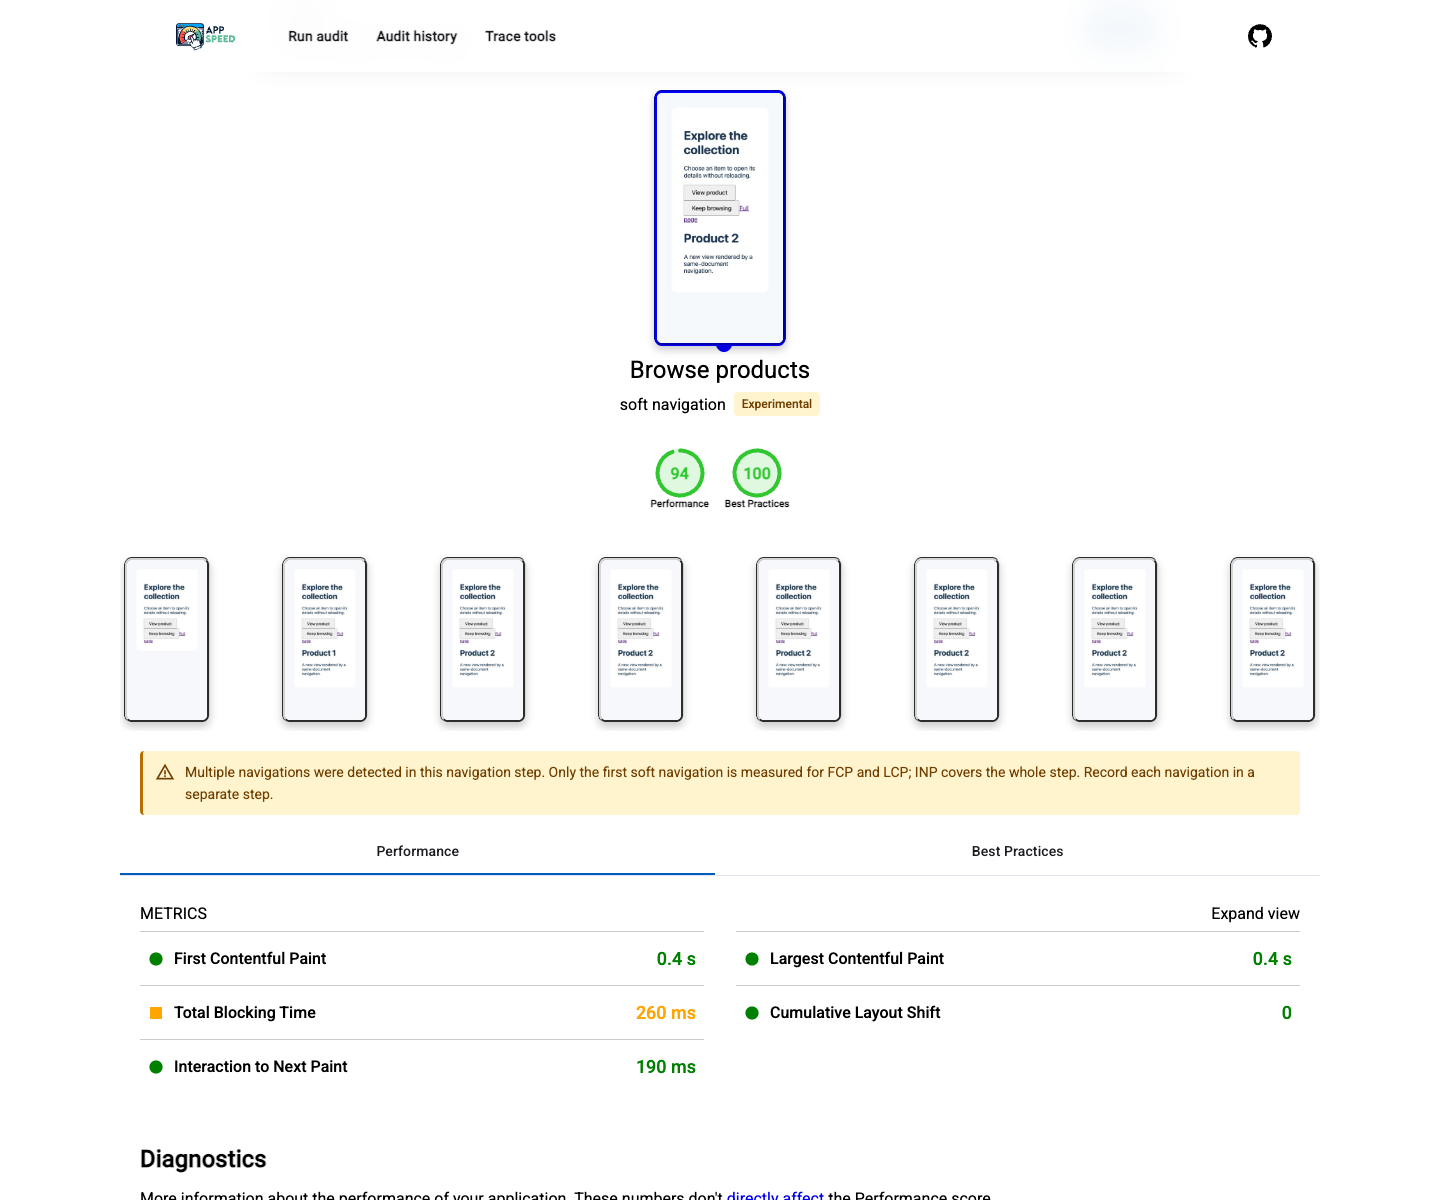
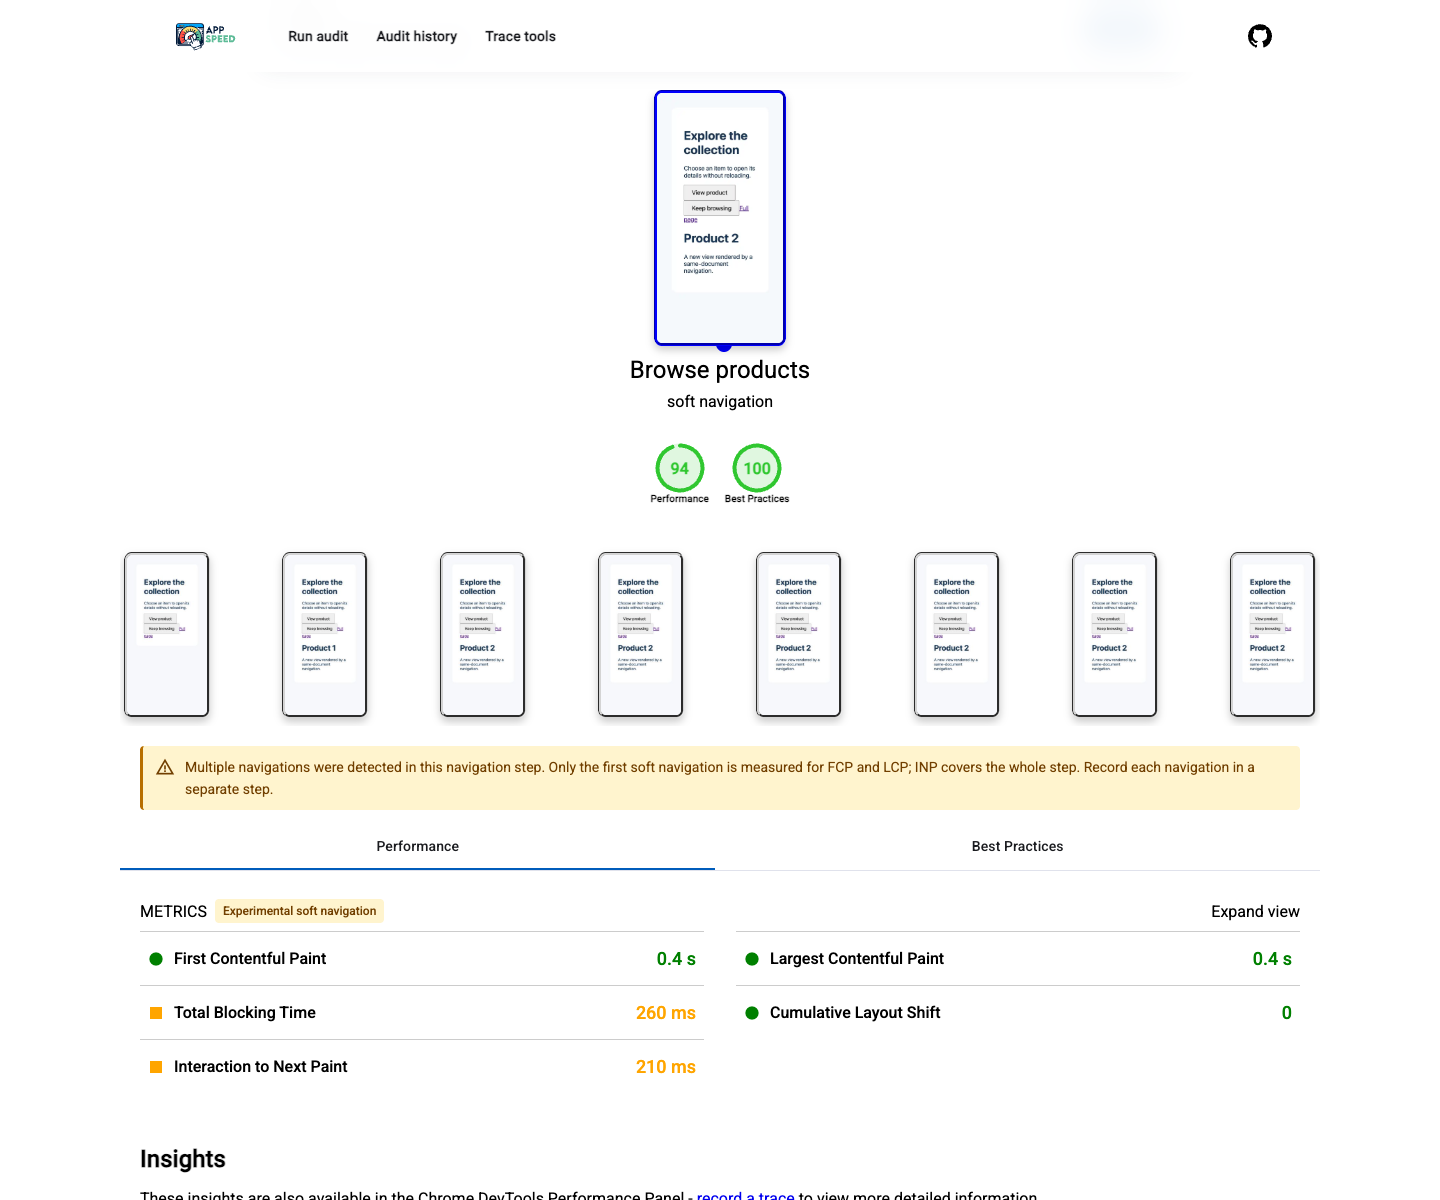
fix(viewer): label experimental soft navigation metrics

diff --git a/libs/audit/user-flow/feature-viewer/src/lib/steps/viewer-step-metric-summary.component.ts b/libs/audit/user-flow/feature-viewer/src/lib/steps/viewer-step-metric-summary.component.ts
@@ -14,7 +14,12 @@ export type MetricSummary = {
   selector: 'viewer-step-metric-summary',
   template: `
     <div class="header">
-      <span>METRICS</span>
+      <div class="header-title">
+        <span>METRICS</span>
+        @if (softNavigation()) {
+          <span class="experimental-metrics" role="note">Experimental soft navigation</span>
+        }
+      </div>
       <button type="button" class="header-toggle" (click)="toddleDescriptionVisibility()">
         {{ toggleBtnText() }} view
       </button>
@@ -45,8 +50,28 @@ export type MetricSummary = {
 
     .header {
       display: flex;
+      flex-wrap: wrap;
+      align-items: center;
+      gap: 8px 12px;
       justify-content: space-between;
       margin: 8px 0;
+    }
+
+    .header-title {
+      display: flex;
+      flex-wrap: wrap;
+      align-items: center;
+      gap: 8px;
+    }
+
+    .experimental-metrics {
+      padding: 2px 8px;
+      border-radius: 4px;
+      background: #fff4ce;
+      color: #713f00;
+      font-size: 12px;
+      font-weight: 500;
+      line-height: 20px;
     }
 
     .content {
@@ -64,6 +89,7 @@ export type MetricSummary = {
     }
 
     .header-toggle {
+      margin-left: auto;
       border: 0;
       padding: 0;
       background: transparent;
@@ -102,6 +128,7 @@ export type MetricSummary = {
 })
 export class ViewerStepMetricSummaryComponent {
   metricSummary = input.required<MetricSummary[]>();
+  softNavigation = input(false);
   readonly descriptionVisible = signal(false);
   readonly toggleBtnText = computed(() => (this.descriptionVisible() ? 'Collapse' : 'Expand'));
   toddleDescriptionVisibility(): void {

diff --git a/libs/audit/user-flow/feature-viewer/src/lib/summary/audit-summary.component.ts b/libs/audit/user-flow/feature-viewer/src/lib/summary/audit-summary.component.ts
@@ -13,7 +13,6 @@ export type AuditSummary = {
   };
   title: string;
   subTitle: string;
-  experimental?: boolean;
   shouldDisplayAsFraction: boolean;
   categoryScores: {
     name: string;
@@ -72,14 +71,7 @@ export function fitScreenshotPreview(width: number, height: number): { width: nu
           </div>
 
           <div class="summary-title">{{ step.title }}</div>
-          <div class="summary-subtitle">
-            {{ step.subTitle }}
-            @if (step.experimental) {
-              <span class="experimental-metrics" role="note" aria-label="Experimental soft navigation metrics">
-                Experimental
-              </span>
-            }
-          </div>
+          <div class="summary-subtitle">{{ step.subTitle }}</div>
 
           @if (activeIndex() === $index) {
             <div class="score-container">
@@ -219,23 +211,9 @@ export function fitScreenshotPreview(width: number, height: number): { width: nu
       margin: 16px 0 8px 0;
     }
     .summary-subtitle {
-      display: flex;
-      flex-wrap: wrap;
-      align-items: center;
-      justify-content: center;
-      gap: 8px;
       font-size: medium;
       text-align: center;
       margin-bottom: 12px;
-    }
-    .experimental-metrics {
-      padding: 2px 8px;
-      border-radius: 4px;
-      background: #fff4ce;
-      color: #713f00;
-      font-size: 12px;
-      font-weight: 500;
-      line-height: 20px;
     }
   `,
 })

diff --git a/libs/audit/user-flow/feature-viewer/src/lib/steps/viewer-step-details.component.spec.ts b/libs/audit/user-flow/feature-viewer/src/lib/steps/viewer-step-details.component.spec.ts
@@ -187,6 +187,19 @@ describe('ViewerStepDetailComponent', () => {
     component = fixture.componentInstance;
   });
 
+  it.each([true, false])(
+    'marks the metrics header as experimental only for soft navigation: %s',
+    async (softNavigation) => {
+      fixture.componentRef.setInput('stepDetails', { ...multiCategoryStep, softNavigation });
+      await fixture.whenStable();
+      const metricsHeader = fixture.nativeElement.querySelector('viewer-step-metric-summary .header-title');
+      expect(metricsHeader?.textContent).toContain('METRICS');
+      expect(metricsHeader?.querySelector('.experimental-metrics')?.textContent ?? '').toBe(
+        softNavigation ? 'Experimental soft navigation' : '',
+      );
+    },
+  );
+
   it('shows the warning when only the first soft navigation was measured', async () => {
     const warning =
       'Multiple navigations were detected in this navigation step. Only the first soft navigation is measured.';

diff --git a/libs/audit/user-flow/feature-viewer/src/lib/steps/viewer-step-details.component.ts b/libs/audit/user-flow/feature-viewer/src/lib/steps/viewer-step-details.component.ts
@@ -67,7 +67,11 @@ type CategoryView = {
         @for (category of categories; track category.id) {
           <mat-tab [label]="category.title">
             @if (category.metricSummary.length) {
-              <viewer-step-metric-summary [metricSummary]="category.metricSummary" class="pad" />
+              <viewer-step-metric-summary
+                [metricSummary]="category.metricSummary"
+                [softNavigation]="stepDetails().softNavigation ?? false"
+                class="pad"
+              />
             }
 
             @for (section of category.sections; track section.key) {

diff --git a/libs/audit/user-flow/feature-viewer/src/lib/page/audit-viewer.container.spec.ts b/libs/audit/user-flow/feature-viewer/src/lib/page/audit-viewer.container.spec.ts
@@ -131,10 +131,6 @@ describe('AuditViewerContainer', () => {
     });
     await fixture.whenStable();
     expect(fixture.nativeElement.querySelector('.summary-subtitle')?.textContent).toContain('soft navigation');
-    expect(
-      fixture.nativeElement.querySelector('.summary-subtitle [aria-label="Experimental soft navigation metrics"]')
-        ?.textContent,
-    ).toContain('Experimental');
   });
 
   it('writes the visible step to the URL fragment', async () => {

diff --git a/libs/audit/user-flow/feature-viewer/src/lib/page/audit-viewer.container.ts b/libs/audit/user-flow/feature-viewer/src/lib/page/audit-viewer.container.ts
@@ -80,7 +80,6 @@ export class AuditViewerContainer {
           screenShotSize: fitScreenshotPreview(screenshot?.width ?? 0, screenshot?.height ?? 0),
           title: name,
           subTitle: softNavigation ? 'soft navigation' : gatherMode,
-          experimental: softNavigation,
           shouldDisplayAsFraction: shouldDisplayAsFraction(gatherMode),
           categoryScores: Object.values(categories).map((category) => {
             const extendedCategory = {
